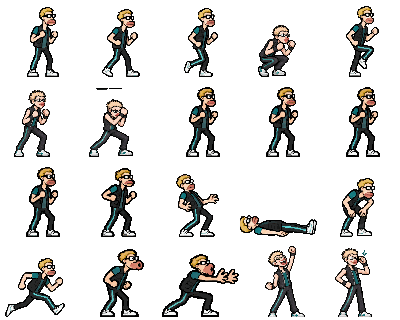
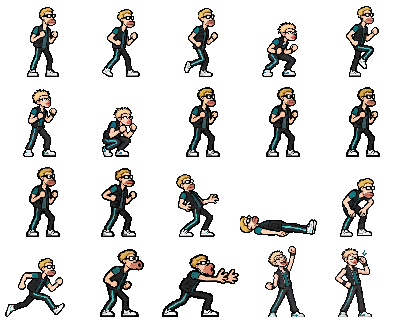
Refine Beiçola crouch, guard, and power effects

diff --git a/src/beicola.js b/src/beicola.js
@@ -1,11 +1,11 @@
 'use strict';
 
 // Sprites do Beiçola: corpo, ataques e vento/som são atlas independentes.
-const beicolaAttacks=imageAsset('assets/fighters/beicola_attacks.png?v=proportion3');
-const beicolaMovement=imageAsset('assets/fighters/beicola_movement.png?v=proportion3');
-const beicolaSpecials=imageAsset('assets/fighters/beicola_specials.png?v=proportion3');
-const beicolaResults=imageAsset('assets/fighters/beicola_results.png?v=proportion3');
-const beicolaEffects=imageAsset('assets/fighters/beicola_fx.png?v=proportion3');
+const beicolaAttacks=imageAsset('assets/fighters/beicola_attacks.png?v=proportion4');
+const beicolaMovement=imageAsset('assets/fighters/beicola_movement.png?v=proportion4');
+const beicolaSpecials=imageAsset('assets/fighters/beicola_specials.png?v=proportion4');
+const beicolaResults=imageAsset('assets/fighters/beicola_results.png?v=proportion4');
+const beicolaEffects=imageAsset('assets/fighters/beicola_fx.png?v=proportion4');
 
 function drawBeicolaAtlasFrame(image,index,columns,cell,scale){
  const x=(index%columns)*cell,y=Math.floor(index/columns)*cell;
@@ -51,9 +51,13 @@ function drawBeicola(f,t){
   const move=f.powerMove;
   const slot=move?.slot??(f.action==='ultimate'?2:0);
   const progress=move?clamp(move.elapsed/Math.max(.01,move.duration),0,1):0;
-  const col=clamp(Math.floor(progress*6),0,5);
+  const eased=progress*progress*(3-2*progress);
+  const col=clamp(Math.floor(eased*6),0,5);
   const row=f.action==='ultimate'?2:slot===1?1:0;
+  ctx.save();
+  ctx.translate(f.dir*3*Math.sin(progress*Math.PI),-2*Math.sin(progress*Math.PI*2));
   drawBeicolaAtlasFrame(beicolaSpecials,row*6+col,6,96,f.c.size*1.28/96);
+  ctx.restore();
   return true;
  }
  if(f.action==='attack'&&beicolaAttacks.naturalWidth){
@@ -89,7 +93,8 @@ function drawBeicolaEffect(f){
  const enemy=game.f?.[1-f.player];
  const range=f.c.powers[slot]?.range||180;
  const distance=enemy?Math.min(range,Math.max(105,Math.abs(enemy.x-f.x))):range;
- const width=clamp(distance*1.05,110,640);
+ const isUltimate=slot===2;
+ const width=clamp(distance*(isUltimate?1.18:1.05),110,isUltimate?820:640);
  ctx.save();
  ctx.translate(f.x+f.dir*28,f.y-f.c.size*.68);
  ctx.scale(f.dir,1);

diff --git a/src/textures.js b/src/textures.js
@@ -304,7 +304,7 @@ const pneusonFrames = {
 
 const pitufoHouse=imageAsset('assets/stages/pitufolandia.png');
 const court=imageAsset('assets/stages/quadra-ceara.png');
-const arcadeSprites=Object.fromEntries(['chapinha','pitufo','gaga','mucutuba','beicola'].map(key=>[key,imageAsset(key==='beicola'?'assets/fighters/beicola_arcade_pixel.png?v=proportion3':`assets/fighters/${key}_arcade_pixel.png`)]));
+const arcadeSprites=Object.fromEntries(['chapinha','pitufo','gaga','mucutuba','beicola'].map(key=>[key,imageAsset(key==='beicola'?'assets/fighters/beicola_arcade_pixel.png?v=proportion4':`assets/fighters/${key}_arcade_pixel.png`)]));
 const dinoAtlas=imageAsset("assets/fighters/dino_arcade_pixel_verde.png");
 
 const powerAtlases=Object.fromEntries(Object.keys(powerFrames).map(key=>[key,imageAsset(`assets/fighters/${key}_powers${key==='dino'?'_verde':''}.png`)]));

diff --git a/index.html b/index.html
@@ -51,7 +51,7 @@
   <script src="src/textures.js?v=dino-clean-1" defer></script>
   <script src="src/audio.js?v=music-gapless" defer></script>
   <script src="src/poses.js?v=neneu-local-1" defer></script>
-  <script src="src/beicola.js?v=proportion3" defer></script>
+  <script src="src/beicola.js?v=proportion4" defer></script>
   <script src="src/menu.js?v=mobile-1" defer></script>
   <script src="src/input.js?v=mobile-1" defer></script>
   <script src="src/match.js?v=arena-select" defer></script>

diff --git a/data/beicola.js b/data/beicola.js
@@ -13,6 +13,6 @@ FIGHTERS.beicola={
  powers:[
   {startup:17,duration:44,damage:10,range:270,knock:44,cooldown:240},
   {startup:22,duration:52,damage:12,range:320,knock:32,cooldown:300},
-  {startup:28,duration:82,damage:30,range:620,knock:105,meterCost:100,invulnerability:0},
+  {startup:28,duration:82,damage:30,range:700,knock:105,meterCost:100,invulnerability:0},
  ],
 };
